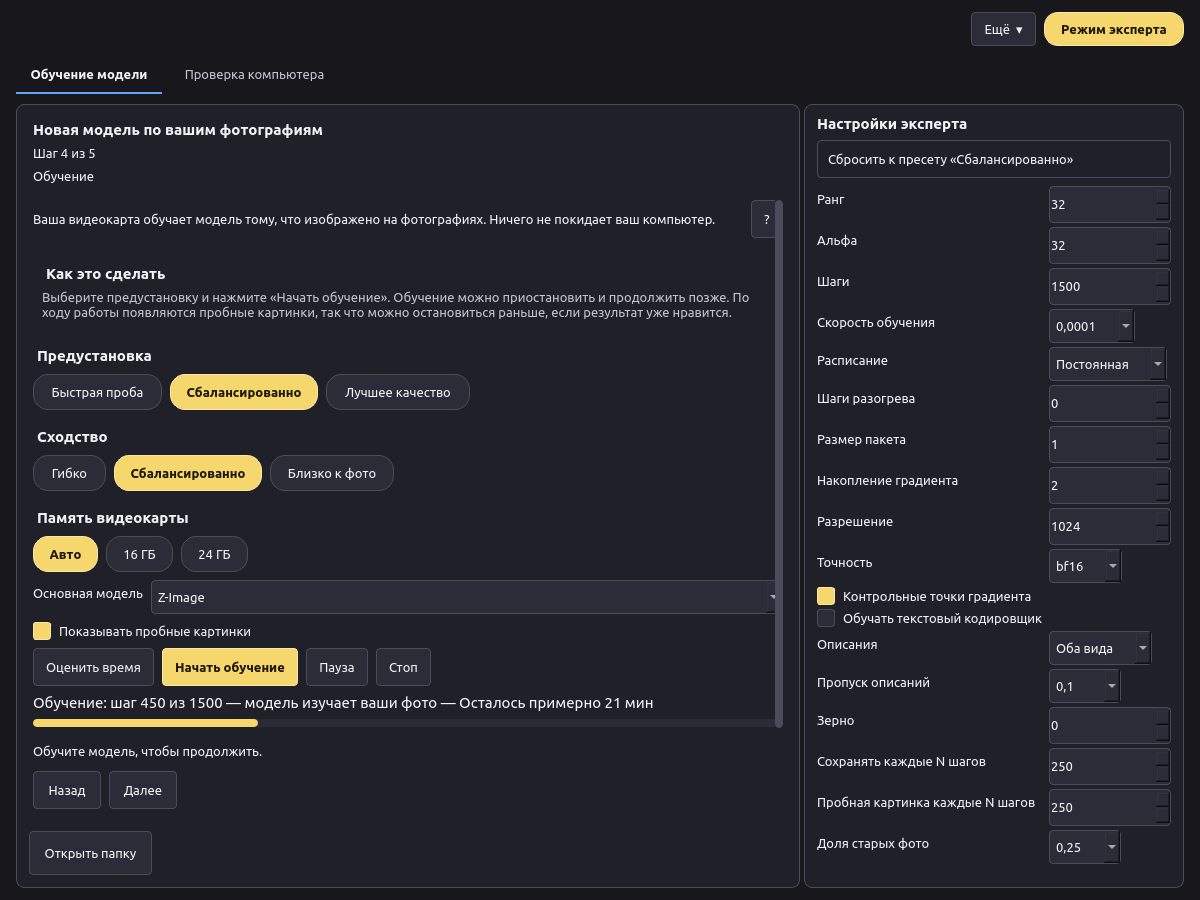
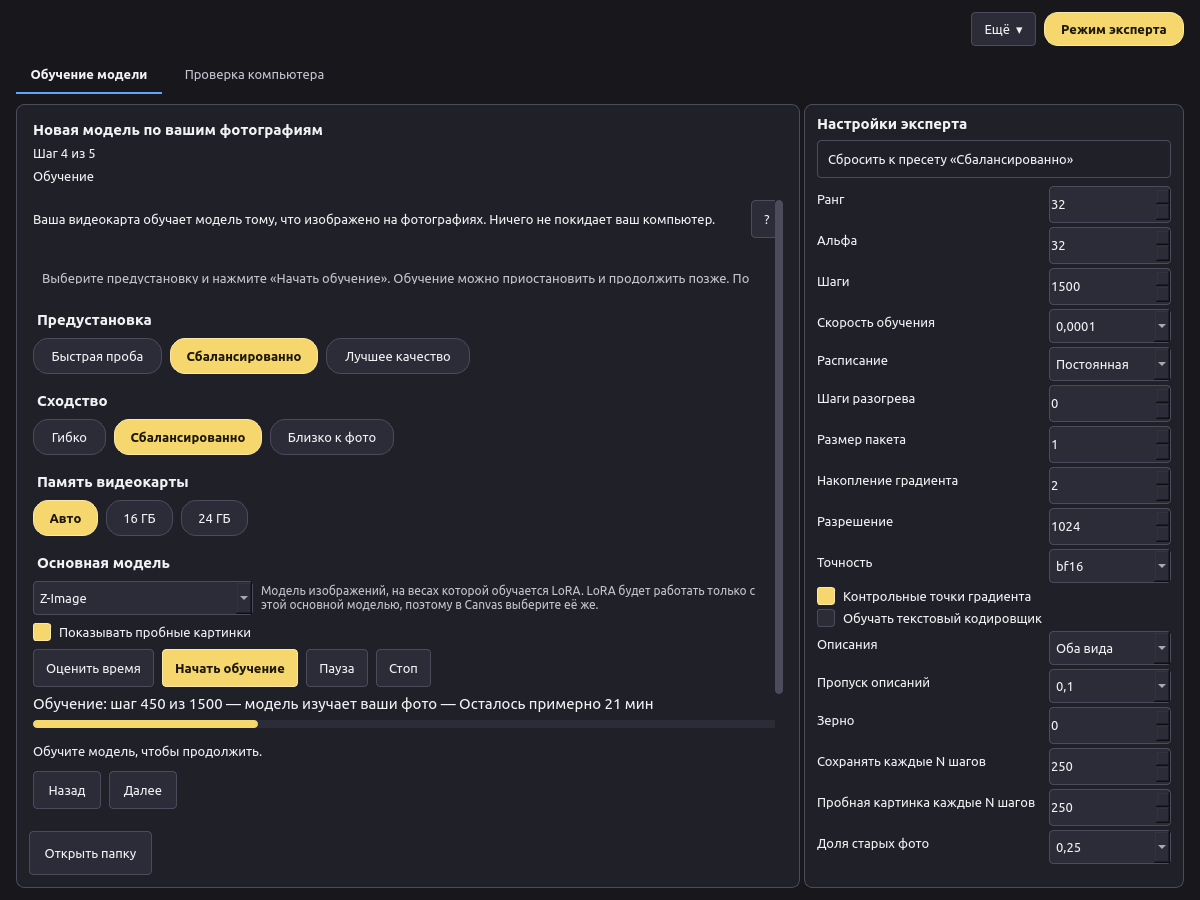
Forge GUI: short base-model picker with a hint, best-for and VRAM line; only trainable bases
- The picker shows the short name; a muted second line in the list says what the base
  is best for and its video memory; the tooltip has repo, licence and the memory source.
  Sane width (220-360 px), hint beside it: the LoRA is trained on this base's weights and
  works only with it.
- Only bases with a training loader are offered (bases.trainable()): today Z-Image.
  MOSS-Image Base stays registered but is not trainable, so it is not listed.
- VRAM: no measured LoRA training peak exists yet (LORA-CALIB has not trained), so the
  line shows the lowest preset tier, 16 GB+. MEASURED_PEAK_GB + TODO(lora-calib).
- RU/EN strings, manual and offline guide, screenshots of the open list.

diff --git a/src/voxprint_forge/app/guide/ru.html b/src/voxprint_forge/app/guide/ru.html
@@ -174,9 +174,10 @@
 <li><strong>Предустановка:</strong> <strong>Быстрая проба</strong> (быстрый первый взгляд), <strong>Сбалансированно</strong> (рекомендуется) или <strong>Лучшее качество</strong> (медленнее).</li>
 <li><strong>Сходство:</strong> <strong>Гибко</strong> (проще помещать в новые сцены), <strong>Сбалансированно</strong> или <strong>Близко к фото</strong> (больше похоже на фото).</li>
 <li><strong>Память видеокарты:</strong> <strong>Авто</strong>, <strong>16 ГБ</strong> или <strong>24 ГБ</strong>. «Авто» определяет вашу видеокарту.</li>
-<li><strong>Основная модель:</strong> Z-Image.</li>
-<li><strong>Показывать пробные картинки:</strong> во время обучения рисуется несколько картинок, чтобы был виден результат.</li>
+<li><strong>Основная модель:</strong> модель изображений, на весах которой обучается LoRA. LoRA будет работать только с этой основной моделью, поэтому в Canvas выберите её же. В списке только те модели, на которых эта версия умеет обучать; сейчас это <strong>Z-Image</strong> (лучше всего для максимального качества; медленнее; от 16 ГБ). Вторая строка каждого варианта говорит, для чего модель подходит лучше всего и сколько видеопамяти нужно. Подробности — во всплывающей подсказке. «От 16 ГБ» — самая маленькая видеокарта, под которую настроены предустановки; после калибровки здесь появятся измеренные цифры.</li>
 </ul>
+<p><img alt="Открытый список основных моделей" src="img/ru-simple-4-train-base-open.png" />
+- <strong>Показывать пробные картинки:</strong> во время обучения рисуется несколько картинок, чтобы был виден результат.</p>
 <p>Нажмите <strong>Оценить время</strong>, чтобы увидеть прогноз, затем <strong>Начать обучение</strong>. Полоса показывает шаг, что сейчас происходит и сколько осталось (после первых шагов).</p>
 <ul>
 <li><strong>Пауза</strong> сохраняет версию и останавливает обучение. Позже нажмите <strong>Начать обучение</strong>, чтобы продолжить с этой версии.</li>

diff --git a/src/voxprint_forge/app/guide/en.html b/src/voxprint_forge/app/guide/en.html
@@ -174,9 +174,10 @@
 <li><strong>Preset:</strong> <strong>Quick test</strong> (a fast first look), <strong>Balanced</strong> (recommended) or <strong>Best quality</strong> (slower).</li>
 <li><strong>Likeness:</strong> <strong>Flexible</strong> (easier to put in new scenes), <strong>Balanced</strong> or <strong>Close</strong> (looks more like the photos).</li>
 <li><strong>Graphics card memory:</strong> <strong>Auto</strong>, <strong>16 GB</strong> or <strong>24 GB</strong>. Auto reads your card.</li>
-<li><strong>Base model:</strong> Z-Image.</li>
-<li><strong>Show test pictures:</strong> draws a few pictures during training so you can see progress.</li>
+<li><strong>Base model:</strong> the picture model whose weights the LoRA is trained on. The LoRA works only with this base, so pick the same one in Canvas. The list shows only bases this version can train on; today that is <strong>Z-Image</strong> (best for maximum quality; slower; 16 GB+). The second line of each option says what the base is best for and how much graphics memory it needs. Hover over an option for details. "16 GB+" is the smallest card the presets are set up for; measured figures will replace it after the calibration run.</li>
 </ul>
+<p><img alt="Base model list open" src="img/en-simple-4-train-base-open.png" />
+- <strong>Show test pictures:</strong> draws a few pictures during training so you can see progress.</p>
 <p>Press <strong>Estimate time</strong> for a forecast, then <strong>Start training</strong>. The bar shows the step, what is happening and the time left (after the first few steps).</p>
 <ul>
 <li><strong>Pause</strong> saves a version and stops. Press <strong>Start training</strong> later to continue from that version.</li>

diff --git a/src/voxprint_forge/app/basepicker.py b/src/voxprint_forge/app/basepicker.py
@@ -1,0 +1,153 @@
+"""The base-model picker on the Train step: a short name per option, details on a muted second line.
+
+Only bases the engine can train on are offered (:func:`voxprint_forge.lora.bases.trainable`).
+Video memory shown per base comes from measured runs when there are any, else
+from the lowest tier the presets target (``VRAM_TIERS``), shown as "16 GB+".
+"""
+
+from __future__ import annotations
+
+from PySide6 import QtCore, QtGui, QtWidgets
+from voxprint_common.i18n import tr
+
+from voxprint_forge.lora.presets import VRAM_TIERS
+
+# Peak training memory in GB per base and tier, from LORA-CALIB (``train16`` / ``train24`` peak_vram_gb).
+# TODO(lora-calib): LORA-CALIB has not produced training numbers yet (the 17 Oct run stopped at prepare).
+# Fill this from its summary.json, e.g. {"z-image": {16: <peak>, 24: <peak>}}; until then the picker
+# shows the preset tier ("16 GB+"), never a guessed figure.
+MEASURED_PEAK_GB: dict[str, dict[int, float]] = {}
+
+DETAIL_ROLE = QtCore.Qt.ItemDataRole.UserRole + 1
+MIN_WIDTH = 220  # px, the closed picker
+MAX_WIDTH = 360
+POPUP_MAX_WIDTH = 520  # px, the open list
+
+
+def muted_color() -> QtGui.QColor:
+    """The shell's muted text colour for the active theme (dark or light)."""
+    try:
+        from voxprint_common.ui.theme import resolved_shell_light
+        from voxprint_common.ui.tokens import load
+
+        tokens = load()
+        colors = tokens.light_colors if resolved_shell_light() else tokens.colors
+        return QtGui.QColor(colors["TEXT_MUTED"])
+    except Exception:  # noqa: BLE001 - a missing token falls back to the palette
+        return QtWidgets.QApplication.palette().color(QtGui.QPalette.ColorRole.PlaceholderText)
+
+
+def vram_text(mdl_id: str) -> str:
+    """``16 GB+`` (preset tier), or the measured peak once calibration has run."""
+    measured = MEASURED_PEAK_GB.get(mdl_id) or {}
+    if measured:
+        return tr("forge.app.base.vram_measured", gb=f"{min(measured.values()):g}")
+    return tr("forge.app.base.vram_tier", gb=min(VRAM_TIERS))
+
+
+def detail_line(mdl_id: str) -> str:
+    """The muted second line: what the base is best for, then video memory."""
+    key = f"forge.app.base.{mdl_id}.note"
+    note = tr(key)
+    vram = vram_text(mdl_id)
+    return vram if note == key else f"{note} · {vram}"
+
+
+def tooltip(mdl_id: str, name: str, repo: str, licence: str) -> str:
+    """Full details for one option."""
+    measured = bool(MEASURED_PEAK_GB.get(mdl_id))
+    key = "forge.app.base.vram_measured.tip" if measured else "forge.app.base.vram_tier.tip"
+    memory = tr(key, vram=vram_text(mdl_id))
+    return tr("forge.app.base.option.tip", name=name, repo=repo, licence=licence, detail=detail_line(mdl_id),
+              memory=memory)
+
+
+class TwoLineDelegate(QtWidgets.QStyledItemDelegate):
+    """Name on the first line, the detail line below it in a muted colour."""
+
+    PAD = 6
+
+    def sizeHint(self, option, index) -> QtCore.QSize:  # noqa: N802 - Qt API
+        """Qt hook: two text lines plus padding."""
+        metrics = QtGui.QFontMetrics(option.font)
+        small = QtGui.QFontMetrics(_small(option.font))
+        width = max(metrics.horizontalAdvance(str(index.data() or "")),
+                    small.horizontalAdvance(str(index.data(DETAIL_ROLE) or ""))) + 4 * self.PAD
+        return QtCore.QSize(min(width, POPUP_MAX_WIDTH), metrics.height() + small.height() + 3 * self.PAD)
+
+    def paint(self, painter: QtGui.QPainter, option, index) -> None:
+        """Qt hook: draw the item."""
+        opt = QtWidgets.QStyleOptionViewItem(option)
+        self.initStyleOption(opt, index)
+        opt.text = ""
+        style = opt.widget.style() if opt.widget is not None else QtWidgets.QApplication.style()
+        style.drawControl(QtWidgets.QStyle.ControlElement.CE_ItemViewItem, opt, painter, opt.widget)
+        selected = bool(option.state & QtWidgets.QStyle.StateFlag.State_Selected)
+        rect = option.rect.adjusted(2 * self.PAD, self.PAD, -2 * self.PAD, -self.PAD)
+        metrics = QtGui.QFontMetrics(option.font)
+        painter.save()
+        text_role = QtGui.QPalette.ColorRole.HighlightedText if selected else QtGui.QPalette.ColorRole.Text
+        painter.setPen(option.palette.color(text_role))
+        painter.setFont(option.font)
+        name = metrics.elidedText(str(index.data() or ""), QtCore.Qt.TextElideMode.ElideRight, rect.width())
+        painter.drawText(QtCore.QRect(rect.left(), rect.top(), rect.width(), metrics.height()),
+                         int(QtCore.Qt.AlignmentFlag.AlignLeft | QtCore.Qt.AlignmentFlag.AlignVCenter), name)
+        small = _small(option.font)
+        small_metrics = QtGui.QFontMetrics(small)
+        muted = muted_color()
+        painter.setPen(option.palette.color(text_role) if selected else muted)
+        painter.setFont(small)
+        detail = small_metrics.elidedText(str(index.data(DETAIL_ROLE) or ""), QtCore.Qt.TextElideMode.ElideRight,
+                                          rect.width())
+        top = rect.top() + metrics.height() + self.PAD // 2
+        painter.drawText(QtCore.QRect(rect.left(), top, rect.width(), small_metrics.height()),
+                         int(QtCore.Qt.AlignmentFlag.AlignLeft | QtCore.Qt.AlignmentFlag.AlignVCenter), detail)
+        painter.restore()
+
+
+def _small(font: QtGui.QFont) -> QtGui.QFont:
+    small = QtGui.QFont(font)
+    size = font.pointSizeF()
+    if size > 0:
+        small.setPointSizeF(max(7.0, size * 0.88))
+    else:
+        small.setPixelSize(max(9, round(font.pixelSize() * 0.88)))
+    return small
+
+
+def build_picker(options: list[tuple[str, str, str, str, bool]], current: str) -> QtWidgets.QComboBox:
+    """A sane-width combo of ``(mdl_id, name, repo, licence, permissive)`` with two-line options."""
+    combo = QtWidgets.QComboBox()
+    combo.setObjectName("forge.train.base")
+    combo.setToolTip(tr("lora.base.tip"))
+    combo.setSizeAdjustPolicy(QtWidgets.QComboBox.SizeAdjustPolicy.AdjustToContents)
+    combo.setMinimumWidth(MIN_WIDTH)
+    combo.setMaximumWidth(MAX_WIDTH)
+    combo.setItemDelegate(TwoLineDelegate(combo))
+    for mdl_id, name, repo, licence, permissive in options:
+        combo.addItem(name, mdl_id)
+        row = combo.count() - 1
+        combo.setItemData(row, detail_line(mdl_id), DETAIL_ROLE)
+        tip = tooltip(mdl_id, name, repo, licence)
+        if not permissive:
+            tip = f"{tip}\n{tr('lora.base.external.tip')}"
+        combo.setItemData(row, tip, QtCore.Qt.ItemDataRole.ToolTipRole)
+    view = combo.view()
+    delegate = combo.itemDelegate()
+    option = QtWidgets.QStyleOptionViewItem()
+    option.font = combo.font()
+    widest = max((delegate.sizeHint(option, combo.model().index(i, 0)).width() for i in range(combo.count())),
+                 default=0)
+    view.setMinimumWidth(min(POPUP_MAX_WIDTH, max(widest, combo.sizeHint().width())))
+    view.setTextElideMode(QtCore.Qt.TextElideMode.ElideRight)
+    combo.setCurrentIndex(max(0, combo.findData(current)))
+    return combo
+
+
+def hint_label() -> QtWidgets.QLabel:
+    """The muted line under the label: what a base is and that the LoRA only works with it."""
+    hint = QtWidgets.QLabel(tr("forge.app.base.hint"))
+    hint.setObjectName("forge.train.base.hint")
+    hint.setWordWrap(True)
+    hint.setStyleSheet(f"color: {muted_color().name()}; font-size: 12px; background: transparent;")
+    return hint

diff --git a/src/voxprint_forge/app/window.py b/src/voxprint_forge/app/window.py
@@ -29,7 +29,7 @@ from voxprint_common.ui.simple_image import SimpleImageWidget, SimpleLayout
 from voxprint_common.ui.theme import build_shell_style
 from voxprint_common.ui.variants import state_names, surface_for
 
-from voxprint_forge.app import engine
+from voxprint_forge.app import basepicker, engine
 from voxprint_forge.app.draft import KINDS, STEPS, Draft, Prepared
 from voxprint_forge.app.flow import FlowRow
 from voxprint_forge.app.settings import PRESET_GROUP, SECTION, WIZARD, config_values, lora_settings, preset_file
@@ -629,19 +629,15 @@ class ForgeApp:
                     row.count() - 1, _button("forge.app.preset.reset", "forge.app.preset.reset.tip", self.apply_simple)
                 )
             column.addLayout(row)
-        form = QtWidgets.QFormLayout()
-        base = QtWidgets.QComboBox()
-        base.setObjectName("forge.train.base")
-        base.setToolTip(tr("lora.base.tip"))
-        for mdl_id, label, permissive in self._bases():
-            base.addItem(label, mdl_id)
-            if not permissive:
-                base.setItemData(base.count() - 1, tr("lora.base.external.tip"), QtCore.Qt.ItemDataRole.ToolTipRole)
-        index = base.findData(self.simple["base"])
-        base.setCurrentIndex(max(0, index))
+        heading = QtWidgets.QLabel(tr("forge.app.base.label"))
+        heading.setObjectName("settingGroup")
+        column.addWidget(heading)
+        base = basepicker.build_picker(self._base_options(), self.simple["base"])
         base.currentIndexChanged.connect(lambda _i: self.simple.__setitem__("base", str(base.currentData() or "")))
-        form.addRow(tr("forge.app.base.label"), base)
-        column.addLayout(form)
+        base_row = QtWidgets.QHBoxLayout()
+        base_row.addWidget(base, 0, QtCore.Qt.AlignmentFlag.AlignTop)
+        base_row.addWidget(basepicker.hint_label(), 1)  # beside the picker, so the step keeps its height
+        column.addLayout(base_row)
         previews = QtWidgets.QCheckBox(tr("forge.app.previews.label"))
         previews.setToolTip(tr("lora.previews.tip"))
         previews.setChecked(self.previews)
@@ -1117,7 +1113,14 @@ class ForgeApp:
             from voxprint_forge.lora import bases
         except ImportError:
             return []
-        return [(info.mdl_id, info.display_name, info.permissive) for info in bases.available()]
+        return [(info.mdl_id, info.display_name, info.permissive) for info in bases.trainable()]
+
+    def _base_options(self) -> list[tuple[str, str, str, str, bool]]:
+        try:
+            from voxprint_forge.lora import bases
+        except ImportError:
+            return []
+        return [(i.mdl_id, i.display_name, i.repo, i.licence, i.permissive) for i in bases.trainable()]
 
 
 class _DropList(QtWidgets.QListWidget):

diff --git a/tests/test_app_window.py b/tests/test_app_window.py
@@ -6,7 +6,7 @@ import pytest
 
 pytest.importorskip("PySide6")
 
-from PySide6 import QtWidgets  # noqa: E402
+from PySide6 import QtCore, QtWidgets  # noqa: E402
 from voxprint_common.i18n import set_language, tr  # noqa: E402
 
 from tests.forge_app_stub import ALL_COMMANDS, StubRunner, make_photos, write_prepared  # noqa: E402
@@ -370,3 +370,35 @@ def test_open_guide_opens_the_offline_page_in_the_app_language(make_app, lang) -
     app.open_guide()
     assert opened and opened[0].name == f"{lang}.html" and opened[0].is_file()
     assert 'src="http' not in opened[0].read_text(encoding="utf-8")
+
+
+@pytest.mark.parametrize("lang", ["en", "ru"])
+@pytest.mark.parametrize("expert", [False, True])
+def test_base_picker_is_short_with_a_hint_and_only_trainable_bases(make_app, tmp_path, lang, expert) -> None:
+    from voxprint_forge.app import basepicker
+    from voxprint_forge.lora import bases
+
+    photos = make_photos(tmp_path / "p", 12)
+    app = make_app(_runner(photos), lang=lang)
+    app.expert.set_enabled(expert)
+    _walk_to(app, "train", photos)
+    QtWidgets.QApplication.processEvents()
+    combo = app.window.findChild(QtWidgets.QComboBox, "forge.train.base")
+    ids = [combo.itemData(i) for i in range(combo.count())]
+    assert ids == [info.mdl_id for info in bases.trainable()]
+    assert "z-image" in ids and "moss-image-base" not in ids
+    assert combo.itemText(0) == "Z-Image" and combo.width() <= basepicker.MAX_WIDTH
+    detail = combo.itemData(0, basepicker.DETAIL_ROLE)
+    assert detail == f"{tr('forge.app.base.z-image.note')} · {tr('forge.app.base.vram_tier', gb=16)}"
+    assert "16" in detail and tr("forge.app.base.vram_tier.tip", vram=tr("forge.app.base.vram_tier", gb=16)) in (
+        combo.itemData(0, QtCore.Qt.ItemDataRole.ToolTipRole))
+    hint = app.window.findChild(QtWidgets.QLabel, "forge.train.base.hint")
+    assert hint is not None and hint.text() == tr("forge.app.base.hint") and hint.isVisibleTo(app.window)
+
+
+def test_base_vram_uses_measured_peaks_only_when_present(monkeypatch) -> None:
+    from voxprint_forge.app import basepicker
+
+    assert basepicker.vram_text("z-image") == tr("forge.app.base.vram_tier", gb=16)
+    monkeypatch.setitem(basepicker.MEASURED_PEAK_GB, "z-image", {16: 14.5, 24: 19.0})
+    assert basepicker.vram_text("z-image") == tr("forge.app.base.vram_measured", gb="14.5")

diff --git a/scripts/forge_app_shots.py b/scripts/forge_app_shots.py
@@ -75,6 +75,7 @@ def main(out: Path) -> None:
             forge.prepare()
             shot("3-prepare")
             next_button.click()
+            shot_open_base(forge, app, out / f"{lang}-{mode}-4-train-base-open.png")
             runner.hold = True
             forge.train()
             shot("4-train-running")
@@ -86,6 +87,24 @@ def main(out: Path) -> None:
             shot("6-check")
             forge.window.close()
             forge.expert.set_enabled(False)
+
+
+def shot_open_base(forge, app, path: Path) -> None:
+    """The Train step with the base-model list open (the popup is its own window, so paint it in)."""
+    from PySide6 import QtCore, QtGui, QtWidgets
+
+    combo = forge.window.findChild(QtWidgets.QComboBox, "forge.train.base")
+    combo.showPopup()
+    app.processEvents()
+    image = forge.window.grab()
+    popup = combo.view().window()
+    painter = QtGui.QPainter(image)
+    corner = forge.window.mapFromGlobal(popup.mapToGlobal(QtCore.QPoint(0, 0)))
+    painter.drawPixmap(corner, popup.grab())
+    painter.end()
+    image.save(str(path))
+    combo.hidePopup()
+    app.processEvents()
 
 
 if __name__ == "__main__":

diff --git a/src/voxprint_forge/lora/bases.py b/src/voxprint_forge/lora/bases.py
@@ -54,6 +54,7 @@ class BaseAdapter(ABC):
     info: BaseInfo
     target_modules: tuple[str, ...] = ()
     requires_gpu: bool = True
+    trainable: bool = True  # False while the adapter has no training loader yet
 
     @abstractmethod
     def load(self, weights_dir: Path, config: TrainConfig, device: str) -> nn.Module:
@@ -103,6 +104,11 @@ def unregister(mdl_id: str) -> None:
 def available() -> list[BaseInfo]:
     """Registered bases."""
     return [cls.info for cls in _REGISTRY.values()]
+
+
+def trainable() -> list[BaseInfo]:
+    """Registered bases this build can actually train on (what the app offers)."""
+    return [cls.info for cls in _REGISTRY.values() if cls.trainable]
 
 
 def get_adapter(mdl_id: str) -> BaseAdapter:
@@ -238,6 +244,7 @@ class MossImageAdapter(BaseAdapter):
     """
 
     info = BaseInfo("moss-image-base", "OpenMOSS-Team/MOSS-Image-Base", "main", "Apache-2.0", "MOSS-Image Base")
+    trainable = False
 
     def load(self, weights_dir: Path, config: TrainConfig, device: str) -> nn.Module:
         """Not available in this release."""

diff --git a/tests/test_lora_engine.py b/tests/test_lora_engine.py
@@ -247,3 +247,9 @@ def test_pause_file_pauses_and_resume_needs_it_gone(tmp_path) -> None:
 def test_pause_file_name_is_fixed(tmp_path) -> None:
     project = make_project(tmp_path)
     assert project.pause == project.root / "PAUSE"
+
+
+def test_only_bases_with_a_training_loader_are_offered() -> None:
+    offered = {info.mdl_id for info in bases.trainable()}
+    assert "z-image" in offered and "moss-image-base" not in offered
+    assert "moss-image-base" in {info.mdl_id for info in bases.available()}

diff --git a/docs/manual/ru.md b/docs/manual/ru.md
@@ -127,7 +127,9 @@ Model Forge никогда не обучается на несовершенно
 - **Предустановка:** **Быстрая проба** (быстрый первый взгляд), **Сбалансированно** (рекомендуется) или **Лучшее качество** (медленнее).
 - **Сходство:** **Гибко** (проще помещать в новые сцены), **Сбалансированно** или **Близко к фото** (больше похоже на фото).
 - **Память видеокарты:** **Авто**, **16 ГБ** или **24 ГБ**. «Авто» определяет вашу видеокарту.
-- **Основная модель:** Z-Image.
+- **Основная модель:** модель изображений, на весах которой обучается LoRA. LoRA будет работать только с этой основной моделью, поэтому в Canvas выберите её же. В списке только те модели, на которых эта версия умеет обучать; сейчас это **Z-Image** (лучше всего для максимального качества; медленнее; от 16 ГБ). Вторая строка каждого варианта говорит, для чего модель подходит лучше всего и сколько видеопамяти нужно. Подробности — во всплывающей подсказке. «От 16 ГБ» — самая маленькая видеокарта, под которую настроены предустановки; после калибровки здесь появятся измеренные цифры.
+
+  ![Открытый список основных моделей](img/ru-simple-4-train-base-open.png)
 - **Показывать пробные картинки:** во время обучения рисуется несколько картинок, чтобы был виден результат.
 
 Нажмите **Оценить время**, чтобы увидеть прогноз, затем **Начать обучение**. Полоса показывает шаг, что сейчас происходит и сколько осталось (после первых шагов).

diff --git a/docs/manual/en.md b/docs/manual/en.md
@@ -127,7 +127,9 @@ You can read the crops, the descriptions and the reasons for set-aside photos, a
 - **Preset:** **Quick test** (a fast first look), **Balanced** (recommended) or **Best quality** (slower).
 - **Likeness:** **Flexible** (easier to put in new scenes), **Balanced** or **Close** (looks more like the photos).
 - **Graphics card memory:** **Auto**, **16 GB** or **24 GB**. Auto reads your card.
-- **Base model:** Z-Image.
+- **Base model:** the picture model whose weights the LoRA is trained on. The LoRA works only with this base, so pick the same one in Canvas. The list shows only bases this version can train on; today that is **Z-Image** (best for maximum quality; slower; 16 GB+). The second line of each option says what the base is best for and how much graphics memory it needs. Hover over an option for details. "16 GB+" is the smallest card the presets are set up for; measured figures will replace it after the calibration run.
+
+  ![Base model list open](img/en-simple-4-train-base-open.png)
 - **Show test pictures:** draws a few pictures during training so you can see progress.
 
 Press **Estimate time** for a forecast, then **Start training**. The bar shows the step, what is happening and the time left (after the first few steps).
